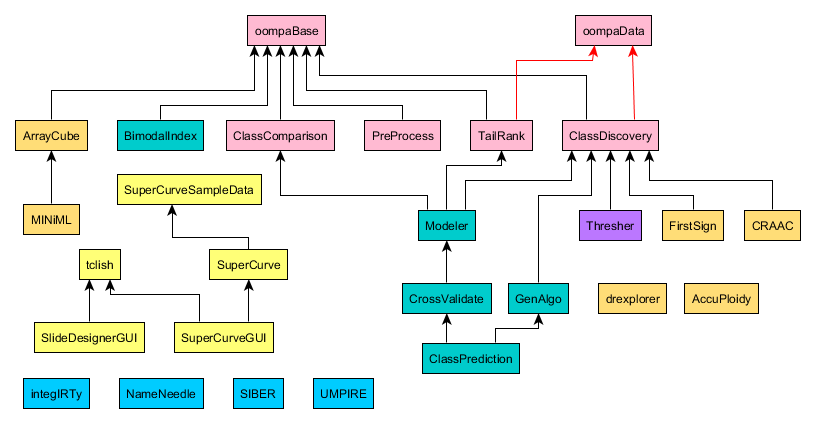
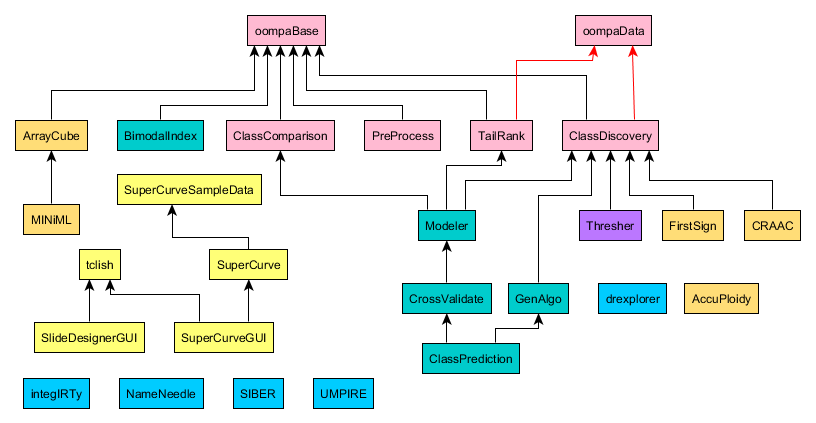
Updated web site info for drexplorer package
git-svn-id: svn://svn.r-forge.r-project.org/svnroot/oompa@246 edb9625f-4e0d-4859-8d74-9fd3b1da38cb

Changed region(s): [[0.7353, 0.6454, 0.8272, 0.7376]]

diff --git a/www/index.html b/www/index.html
@@ -162,8 +162,9 @@ table below.
   <TD class="padded">Under Development</TD>
 </TR>
 <TR class="padded">
-  <TD class="padded kltorange">drexplorer</TD>
-  <TD class="padded">Under Development</TD>
+  <TD class="padded ksky">drexplorer</TD>
+  <TD class="padded"><a href="https://github.com/nickytong/drexplorer">
+  Available from GitHub</a></TD>
 </TR>
 </TABLE>
 
@@ -173,8 +174,8 @@ table below.
 <p>
 Licenses for individual packages vary, so you should see their
 DESCRIPTION files for details.  Most current packages are released
-under Version 2.0 of the Apache License.  Th current verssion of the
-SUperCurve packages, and older versions of many other packages, are
+under Version 2.0 of the Apache License.  The current version of the
+SuperCurve packages, and older versions of many other packages, are
 released under Version 2.0 of the Perl Artistic License.
 </p>
 
